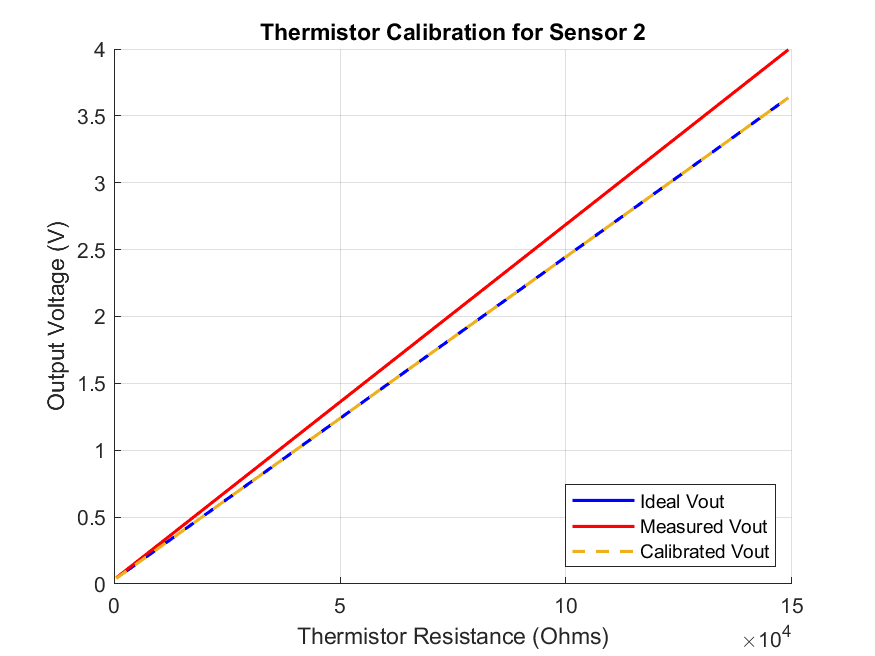
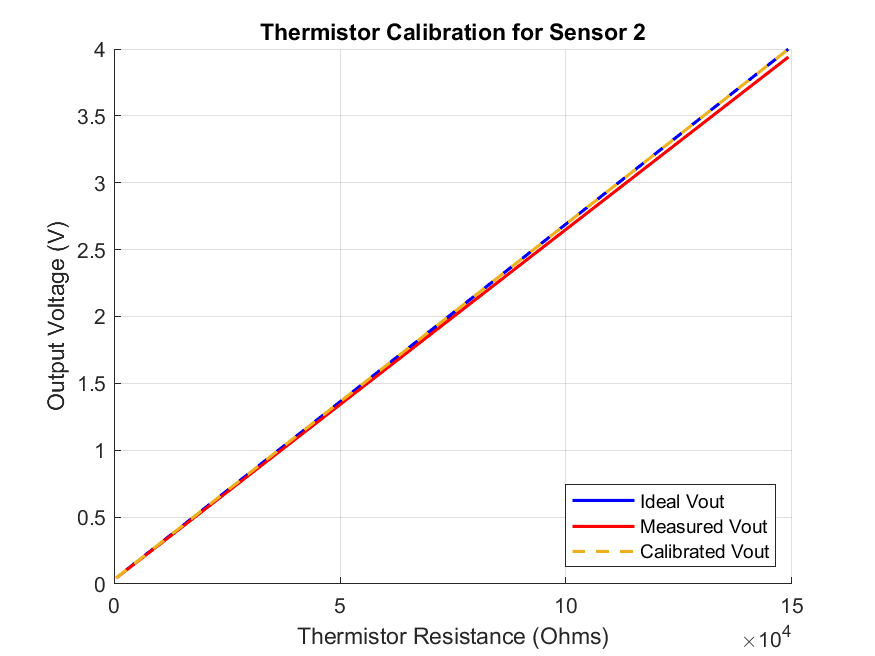
Corrected calibration; Vin = 5.5V. Recording volts. Updated plotting window.

diff --git a/main.py b/main.py
@@ -6,46 +6,49 @@ from smbus2 import SMBus
 
 # Voltage Divider Circuit Details
 r1 = 56000  # Resistor R1 in ohms
-vIn = 5
+vIn = 5.5
 
 # UNIX domain socket path
 HOST = "localhost"
 PORT = 65432
 
-coeff_a = [1.0986, 1.0991, 1.0964, 1.0989, 1.1000, 1.0972, 1.0988, 1.1004]
-coeff_b = [-0.0005, -0.0005, -0.0009, -0.0006, -0.0005, -0.0009, -0.0007, -0.0005]
+#coeff_a = [1.0986, 1.0991, 1.0964, 1.0989, 1.1000, 1.0972, 1.0988, 1.1004]
+#coeff_b = [-0.0005, -0.0005, -0.0009, -0.0006, -0.0005, -0.0009, -0.0007, -0.0005]
+
+coeff_a = [0.9880, 0.9855, 0.9804, 0.9827, 0.9880, 0.9804, 0.9829, 0.9829]
+coeff_b = [-0.0010, -0.0009, -0.0007, -0.0002, -0.0010, -0.0007, -0.0008, -0.0008]
 
 # Lookup table for converting resistance to temperature for a 100k NTC thermistor
 # The table contains tuples of (resistance in ohms, temperature in Celsius)
 thermistor_table = [
-    (170853, 57), (161700, 59), (153092, 61), (144992, 63), (137367, 65), 
-    (130189, 67), (123368, 69), (117000, 71), (110998, 73), (105338, 75),
-    (100000, 77), (94963, 79), (90208, 81), (85719, 83), (81479, 85),
-    (77438, 87), (73654, 89), (70076, 91), (66692, 93), (63491, 95),
-    (60461, 97), (57594, 99), (54878, 101), (52306, 103), (49847, 105),
-    (47538, 107), (45349, 109), (43273, 111), (41303, 113), (39434, 115),
-    (37660, 117), (35976, 119), (34376, 121), (32843, 123), (31399, 125),
-    (30027, 127), (28722, 129), (27481, 131), (26300, 133), (25177, 135),
-    (24107, 137), (23089, 139), (22111, 141), (21188, 143), (20308, 145),
-    (19469, 147), (18670, 149), (17907, 151), (17180, 153), (16486, 155),
-    (15824, 157), (15187, 159), (14584, 161), (14008, 163), (13458, 165),
-    (12932, 167), (12430, 169), (11949, 171), (11490, 173), (11051, 175),
-    (10627, 177), (10225, 179), (9841, 181), (9473, 183), (9121, 185), (8783, 187), 
+    ##
+    (322000, 32.0), (315000, 33.0), (308000, 34.0), (299000, 35.0), (293500, 36.0),
+    (283500, 37.0), (274000, 38.0), (261700, 40.0), (254000, 41.0), (242000, 43.0),
+    (228000, 45.0), (214800, 47.0), (210000, 48.0), (197300, 50.0), (186500, 52.0),
+    ## Temperatures < 55.64°C exceed adc voltage range (4.096V)
     
-    # Temperature values above 187 degrees F are approximated
-    (8461, 189), (8151, 191), (7853, 193), (7567, 195),
-    (7292, 197), (7026, 199), (6770, 201), (6523, 203), (6285, 205),
-    (6055, 207), (5833, 209), (5618, 211), (5410, 213), (5209, 215),
-    (5015, 217), (4827, 219), (4645, 221), (4469, 223), (4299, 225),
-    (4134, 227), (3975, 229), (3820, 231), (3669, 233), (3524, 235),
-    (3383, 237), (3246, 239), (3113, 241), (2984, 243), (2859, 245),
-    (2737, 247), (2619, 249), (2504, 251), (2392, 253), (2283, 255),
-    (2177, 257), (2074, 259), (1974, 261), (1876, 263), (1781, 265),
-    (1688, 267), (1598, 269), (1510, 271), (1424, 273), (1340, 275),
-    (1259, 277), (1179, 279), (1102, 281), (1026, 283), (952, 285),
-    (880, 287), (810, 289), (742, 291), (676, 293), (612, 295),
-    (550, 297), (489, 299), (430, 301)
+    (178600, 54.0), (152900, 60.0), (139700, 63.0), (108300, 73.0), (99400, 77.0),
+    (89900, 81.0), (81800, 85.0), (63300, 95.0), (62000, 96.0), (60700, 97.0),
+    (60000, 98.0), (58100, 99.0), (56600, 100.0), (55100, 101.0), (54400, 102.0),
+    (52800, 103.0), (51800, 104.0), (50400, 105.0), (49500, 106.0), (48500, 107.0),
+    (47100, 108.0), (46000, 109.0), (45000, 110.0), (44000, 111.0), (42900, 112.0),
+    (42300, 113.0), (41200, 114.0), (40200, 115.0), (39400, 116.0), (38600, 117.0),
+    (37600, 118.0), (36900, 119.0), (36000, 120.0), (35300, 121.0), (34900, 122.0),
+    (33700, 123.0), (33400, 124.0), (32600, 125.0), (32800, 126.0), (31900, 127.0),
+    (31200, 128.0), (30700, 129.0), (29900, 130.0), (29200, 131.0), (28700, 132.0),
+    (28200, 133.0), (27600, 134.0), (26900, 135.0), (26200, 136.0), (25500, 137.0),
+    (25300, 138.0), (23750, 140.0), (22670, 141.0), (22300, 142.0), (22000, 147.0),
+    (21500, 148.0), (21000, 150.0), (20510, 150.2), (20000, 152.0), (17500, 158.5),
+    (11250, 180.0), (11000, 182.0), (10860, 183.0), (10500, 187.0), (10450, 185.0),
+    (10200, 187.0), (10000, 190.0), (9890, 189.0), (9600, 190.0), (9500, 192.5),
+    (8370, 200.0), (7500, 207.0), (7000, 211.0), (6500, 217.0), (6000, 220.0),
+    (5700, 223.0), (5510, 225.0), (5300, 228.0), (5000, 231.0), (4800, 234.0),
+    (4610, 236.0), (4410, 239.0), (4200, 242.0), (4000, 245.0), (3800, 248.7),
+    (3450, 255.0), (3200, 259.4), (2100, 283.0), (1600, 301.0), (1520, 304.0),
+    (1400, 310.0)
 ]
+
+
 
 # Function to send a voltage query to the C program
 # INW, hasn't been tested yet
@@ -92,6 +95,7 @@ def convert_to_temperature(raw_reading):
     # Convert ADC reading to voltage
     voltage = raw_reading * (4.096 / 32768)
     
+    # print(f"Raw ADC: {raw_reading}, Voltage: {voltage:.3f} V")
     # Calibrate the voltage using the provided coefficients
     calibrated_voltage = (voltage - coeff_b[0]) / coeff_a[0]
     
@@ -99,46 +103,46 @@ def convert_to_temperature(raw_reading):
 
     # Voltage to resistance conversion
     rTherm = r1 * (1 / ((vIn / calibrated_voltage) - 1))
+    # print(f"Voltage: {calibrated_voltage:.3f} V, Resistance: {rTherm:.2f} ohms")
     
     # Lookup temperature from the table
     temperature = lookup_temperature(rTherm)
-    return round(temperature, 2) if temperature is not None else None
+    return [round(temperature, 2) if temperature is not None else None, round(calibrated_voltage, 3)]
 
 # CSV file for logging
 time_stamp = time.strftime("%Y%m%d_%H%M")
 filename = f"Logs/Smoker_log_{time_stamp}.csv"
 
 with open(filename, "w", newline="") as csvfile:
-    fieldnames = ["Timestamp", "TEMP00", "TEMP01", "TEMP02", "TEMP03",
-                  "TEMP10", "TEMP11", "TEMP12", "TEMP13"]
+    fieldnames = ["Timestamp", "TEMP00", "VOLT00", "TEMP01", "VOLT01",
+                  "TEMP02", "VOLT02", "TEMP03", "VOLT03", "TEMP10", "VOLT10",
+                  "TEMP11", "VOLT11", "TEMP12", "VOLT12", "TEMP13", "VOLT13"]
     writer = csv.DictWriter(csvfile, fieldnames=fieldnames)
     writer.writeheader()
 
     try:
         while True:
             try:
-                # Read all 4 channels from both ADS1115 modules and convert to temperature
-                readings = {
-                    "Timestamp": time.strftime("%Y-%m-%d %H:%M:%S"),
-                    "TEMP00": convert_to_temperature(ads1._read(0)),
-                    "TEMP01": convert_to_temperature(ads1._read(1)),
-                    "TEMP02": convert_to_temperature(ads1._read(2)),
-                    "TEMP03": convert_to_temperature(ads1._read(3)),
-                    "TEMP10": convert_to_temperature(ads2._read(0)),
-                    "TEMP11": convert_to_temperature(ads2._read(1)),
-                    "TEMP12": convert_to_temperature(ads2._read(2)),
-                    "TEMP13": convert_to_temperature(ads2._read(3)),
-                }
+                # Read sensor values and store results in a dictionary
+                readings = {"Timestamp": time.strftime("%Y-%m-%d %H:%M:%S")}
+
+                # Loop through both ADS instances and their channels
+                for sensor, ads in enumerate([ads1, ads2]):
+                    for channel in range(4):
+                        temperature, voltage = convert_to_temperature(ads._read(channel))
+                        readings[f"TEMP{sensor}{channel}"] = temperature
+                        readings[f"VOLT{sensor}{channel}"] = voltage
 
                 # Write to CSV
                 writer.writerow(readings)
                 csvfile.flush()
 
+
                 # Print to console for monitoring
                 print(readings)
 
                 # Wait 1 second before next reading
-                time.sleep(3)
+                time.sleep(1)
 
             except OSError as e:
                 print(f"OS error occurred: {e}. Reinitializing I2C and ADS modules...")

diff --git a/plotter.py b/plotter.py
@@ -1,99 +1,126 @@
 import csv
+import numpy as np
 import matplotlib.pyplot as plt
 from matplotlib.animation import FuncAnimation
-import numpy as np
-from tkinter import Tk, filedialog
+from matplotlib.backends.backend_tkagg import FigureCanvasTkAgg, NavigationToolbar2Tk
+import tkinter as tk
+from tkinter import filedialog
+import sys  # Needed for proper exit handling
 
 # Initialize data storage
 timestamps = []
 temps = {f"TEMP{sensor}{channel}": [] for sensor in range(2) for channel in range(4)}  # TEMP00-TEMP03, TEMP10-TEMP13
 
 # User-configurable running mean window size
-window_size = 32  # Number of values to average
+window_size = 8  # Number of values to average
+paused = False  # Global flag for pause state
 
 # Function to calculate the running mean
 def running_mean(data, window):
     if len(data) < window:
-        # Calculate mean for available data points only
         return [np.mean(data[:i+1]) for i in range(len(data))]
     return [np.mean(data[end-window:end]) for end in range(window, len(data)+1)]
-    # return np.convolve(data, np.ones(window) / window, mode='valid')
-
 
 # Function to select a file using a file dialog
 def select_file():
-    root = Tk()
+    root = tk.Tk()
     root.withdraw()  # Hide the root window
     root.attributes('-topmost', True)  # Bring the file dialog to the front
-    file_path = filedialog.askopenfilename(title="Select CSV File", filetypes=[("CSV Files", "*.csv")])
+    file_path = filedialog.askopenfilename(title="Select CSV File", filetypes=[("CSV Files", "*.csv")], initialdir="Logs/")
     return file_path
 
 # Select the file
 filename = select_file()
 if not filename:
     print("No file selected. Exiting.")
-    exit()
+    sys.exit()
+
+# Function to toggle the pause state
+def toggle_pause():
+    global paused
+    paused = not paused
+    pause_button.config(text="Continue" if paused else "Pause")
 
 # Function to update the plot
 def update_plot(frame):
-    global timestamps, temps
+    global timestamps, temps, paused
+    if paused:
+        return  # Skip updating the plot when paused
 
     # Read the latest data from the CSV file
     with open(filename, "r") as csvfile:
         reader = csv.DictReader(csvfile)
         for row in reader:
-            # Skip already plotted rows
             if row["Timestamp"] in timestamps:
                 continue
-
-            # Check if all sensors have valid (non-None) data for the row
             if any(row[key] is None or row[key] == "" for key in temps.keys()):
                 continue  # Skip rows with invalid data
 
-            # Append new data
             timestamps.append(row["Timestamp"])
             for key in temps.keys():
                 value = row.get(key)
                 temps[key].append(float(value) if value else None)
 
     # Clear the plot
-    plt.cla()
+    ax.clear()
 
     # Plot only the running mean data
     for sensor_channel, temp_values in temps.items():
-        # Remove None values from the list
         cleaned_values = [value for value in temp_values if value is not None]
-
-        # Calculate running mean
         averaged_values = running_mean(cleaned_values, window_size)
-
-        # Adjust timestamps for the running mean
         averaged_timestamps = timestamps[-len(averaged_values):]
 
-        # Plot the running mean
-        plt.plot(averaged_timestamps, averaged_values, label=f"{sensor_channel} (mean)")
+        ax.plot(averaged_timestamps, averaged_values, label=f"{sensor_channel} (mean)")
 
-    # Format the plot
-    plt.title("Live Temperature Plot with Running Mean")
-    plt.xlabel("Timestamp")
-    plt.ylabel("Temperature (°F)")
+    ax.set_title("Live Temperature Plot with Running Mean")
+    ax.set_xlabel("Timestamp")
+    ax.set_ylabel("Temperature (°F)")
 
-    # Adjust x-axis to show fewer, readable timestamps
     if len(timestamps) > 0:
-        plt.xticks(
-            ticks=np.linspace(0, len(timestamps) - 1, min(len(timestamps), 10)).astype(int),
-            labels=[timestamps[int(i)] for i in np.linspace(0, len(timestamps) - 1, min(len(timestamps), 10))],
+        ax.set_xticks(
+            np.linspace(0, len(timestamps) - 1, min(len(timestamps), 10)).astype(int)
+        )
+        ax.set_xticklabels(
+            [timestamps[int(i)] for i in np.linspace(0, len(timestamps) - 1, min(len(timestamps), 10))],
             rotation=45,
-            ha="right",
+            ha="right"
         )
 
-    plt.legend(loc="upper left")
-    plt.tight_layout()  # Adjust layout to fit labels
+    ax.legend(loc="upper left")
+    fig.tight_layout()
+    canvas.draw()  # Ensure updates are reflected on the GUI
 
+# Properly handle closing the window
+def on_closing():
+    print("Closing plot...")
+    ani.event_source.stop()  # Stop the animation loop
+    root.quit()  # Stop Tkinter mainloop
+    root.destroy()  # Destroy the window
+    sys.exit()  # Ensure full exit from the terminal
 
-# Set up the plot
-plt.figure(figsize=(10, 6))
-ani = FuncAnimation(plt.gcf(), update_plot, interval=5000, cache_frame_data=False)  # Update every 5 seconds
+# Set up the Tkinter GUI
+root = tk.Tk()
+root.title("Smoker Plot")
 
-# Show the live plot
-plt.show()
+# Create Matplotlib figure and embed in Tkinter
+fig, ax = plt.subplots(figsize=(10, 6))
+canvas = FigureCanvasTkAgg(fig, master=root)
+canvas.get_tk_widget().pack(side=tk.TOP, fill=tk.BOTH, expand=True)
+
+# Add Matplotlib toolbar for zoom/pan functionality
+toolbar = NavigationToolbar2Tk(canvas, root)
+toolbar.update()
+toolbar.pack(side=tk.TOP, fill=tk.X)
+
+# Create pause button
+pause_button = tk.Button(root, text="Pause", command=toggle_pause, font=("Arial", 12))
+pause_button.pack()
+
+# Create Matplotlib animation
+ani = FuncAnimation(fig, update_plot, interval=1500, cache_frame_data=False)
+
+# Set the close event to properly exit
+root.protocol("WM_DELETE_WINDOW", on_closing)
+
+# Run the Tkinter event loop
+root.mainloop()

diff --git a/calibration/adc_channel_calibration.m b/calibration/adc_channel_calibration.m
@@ -2,7 +2,7 @@
 
 % Given values
 Rdivider = 56e3; % 56k ohms
-Vin = 5;         % 5V input voltage
+Vin = 5.5;         % 5V input voltage
 
 % Fixed Resistor values
 Rtherm = [467.9, 149.2e3]; % Shared Rtherm values for all sensors
@@ -12,14 +12,14 @@ Vout_ideal = (Rtherm ./ (Rtherm + Rdivider)) * Vin;
 
 % Actual measured values for calibration
 %            [V_470Ohm, V_150kOhm]
-Vout_actual = [0.04499, 3.9933; % Sensor 1
-               0.04508, 3.9953; % Sensor 2
-               0.04455, 3.9851; % Sensor 3
-               0.04488, 3.9942; % Sensor 4
-               0.04512, 3.9987; % Sensor 5
-               0.04457, 3.9880; % Sensor 6
-               0.04485, 3.9941; % Sensor 7
-               0.04507, 4.00]; % Sensor 8
+Vout_actual = [0.044, 3.95; % Sensor 1
+               0.044, 3.94; % Sensor 2
+               0.044, 3.92; % Sensor 3
+               0.045, 3.93; % Sensor 4
+               0.044, 3.95; % Sensor 5
+               0.044, 3.92; % Sensor 6
+               0.044, 3.93; % Sensor 7
+               0.044, 3.93]; % Sensor 8
 
 % Loop through each sensor for calibration
 num_sensors = size(Vout_actual, 1);
